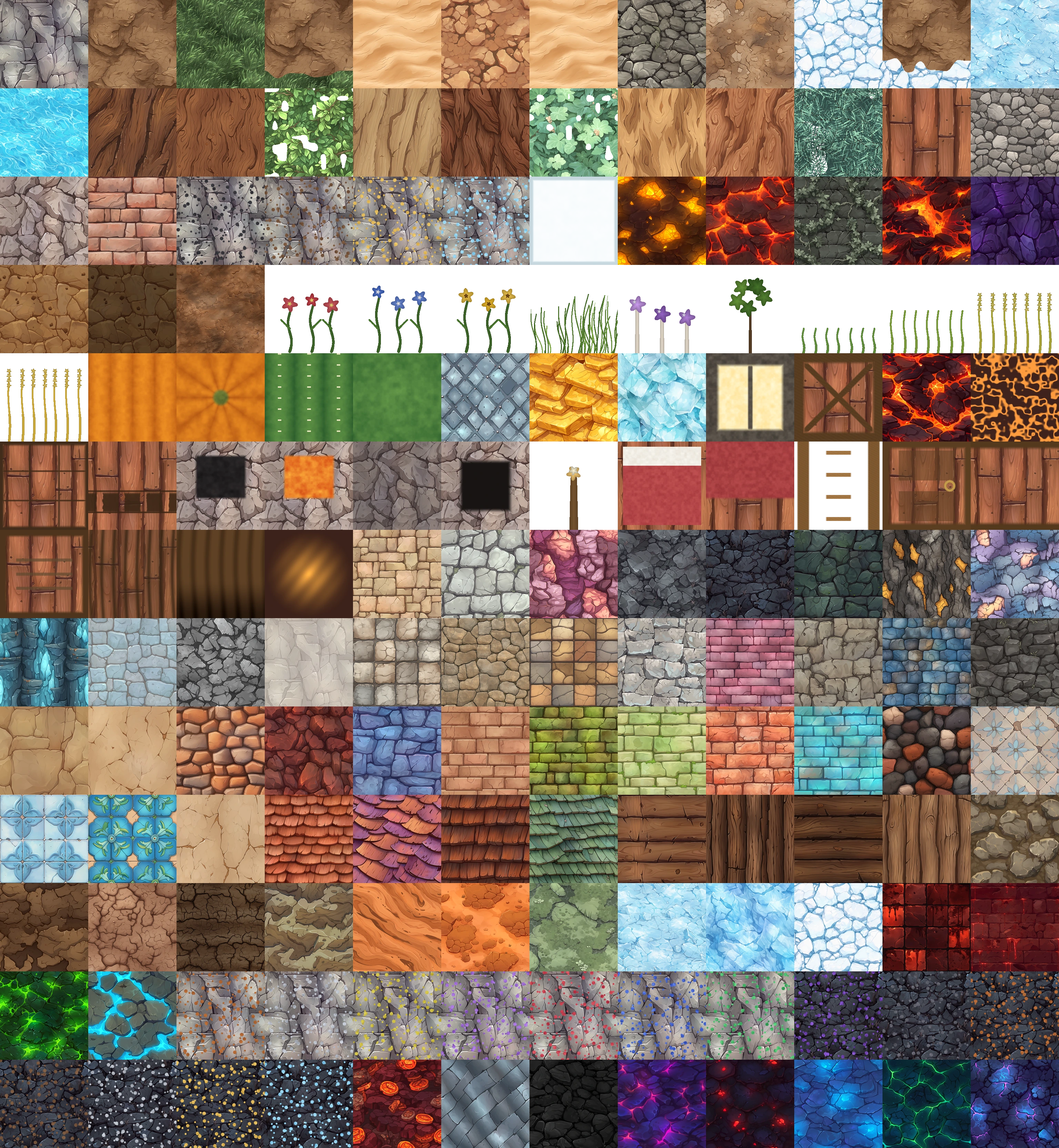
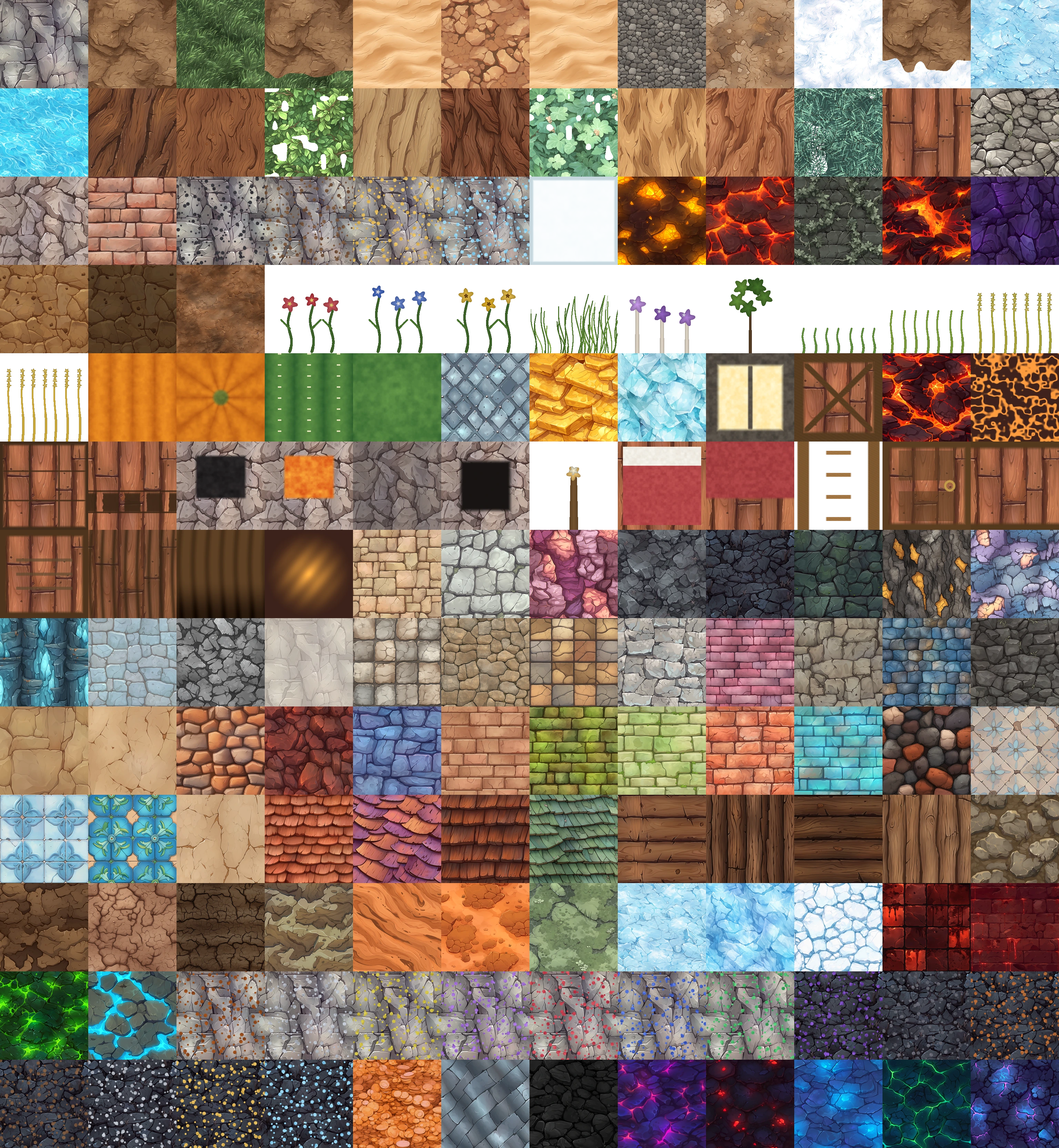
Snow is snow, and a grass block's soil matches the dirt beside it
Cobblestone and gravel were effectively swapped, and it was the cheap
explanation: two variants of one pack folder, the wrong way round. Gravel had
the rubble wall with big set stones and wide mortar; cobblestone had the bed of
small mixed stones. Exchanged, and gravel now tiles its source at half scale so
the two are separated by stone size rather than only by exposure.

Snow was drawn from a folder that is entirely snow-dusted *rock* - all eleven
variants - so "white rocks clumped together" was literally what it was. There
is a separate snow folder; the drift there has a luminance standard deviation
of 13 against the rock's 33, and no hard edges.

The grass block's soil was never a texture fault. Measured in the baked atlas,
the lower 70 percent of the grass side and the dirt tile agree to 0.03 counts
per channel. The mismatch is the biome tint, which is per block and multiplied
every fragment, so a grass block's soil took the grass colour and the dirt
block beside it did not. The bottom face is now excluded by layer, and the side
face is masked per texel through the arm map's unused alpha, which is 16
percent coverage and all of it at the top of the face. In game, on one wall:
the soil went from 53 percent of the dirt block's red with the green pushed to
parity, to within 3.5 counts and the same hue.

Copper was two defects, and the stated one was not real: every ore masks 11.6
percent of its tile, identical to three significant figures, so the fleck
[…]

Changed region(s): [[0.75, 0.0, 1.0, 0.1562], [0.3125, 0.9062, 0.4375, 1.0], [0.5625, 0.0, 0.6875, 0.0938]]

diff --git a/src/render/VoxelMaterial.js b/src/render/VoxelMaterial.js
@@ -709,6 +709,19 @@ varying vec3 vWorld;
 varying vec3 vTangent;
 varying float vWave;
 vec3 armSample;
+/**
+ * How much of the block's biome tint this texel takes, 1 by default.
+ *
+ * The tint is per BLOCK and a grass block's side face is two materials in one
+ * tile: living turf across the top sixth and the same soil as a dirt block under
+ * it. Multiplying the whole face by the biome grass colour turned that soil
+ * olive (plains: 140/102/70 becomes 77/80/28) while the dirt block against it
+ * stayed brown. The mask rides in the arm atlas's alpha, which is otherwise
+ * unused and 255 everywhere — so every other tile is unaffected, and unlike the
+ * albedo's alpha it is not also the cut-out mask that the held/inventory block
+ * renderer alpha-tests against. Written in scripts/bake-textures.mjs.
+ */
+float tintMask = 1.0;
 
 // --- aerial perspective ------------------------------------------------------
 //
@@ -858,8 +871,9 @@ vec3 cellOffset(vec3 p, vec3 cen) {
  * the one it replaced.
  */
 const SEASON_FRAG = /* glsl */`
-  vec3 seasonBase = diffuseColor.rgb * vTint;
-  float living = clamp(length(vec3(1.0) - vTint) * 4.0, 0.0, 1.0);
+  vec3 blockTint = mix(vec3(1.0), vTint, tintMask);
+  vec3 seasonBase = diffuseColor.rgb * blockTint;
+  float living = clamp(length(vec3(1.0) - blockTint) * 4.0, 0.0, 1.0);
   float seasonLum = dot(seasonBase, vec3(0.299, 0.587, 0.114));
   vec3 rehued = mix(seasonBase, seasonLum * uSeasonColor, uSeasonStrength);
   diffuseColor.rgb = mix(seasonBase, rehued, living);
@@ -868,6 +882,9 @@ const SEASON_FRAG = /* glsl */`
 const MAP_FRAG = /* glsl */`
   vec4 texel = texture(uMap, vec3(vTexUv, vLayer));
   diffuseColor *= texel;
+  // Solid faces only. A cut-out tile's arm alpha is its own business and the
+  // liquid path has no biome tint to mask, so both leave tintMask at 1.
+  tintMask = texture(uArm, vec3(vTexUv, vLayer)).a;
 ${SEASON_FRAG}
 
   // Per-voxel tone jitter: identical blocks stop reading as tiled wallpaper.
@@ -1997,6 +2014,7 @@ export function createItemBlockMaterial() {
         uniform float uSeasonStrength;
         vec3 armS;
         vec4 texelS;
+        float tintMask = 1.0;
       `)
       // A held or dropped block turns with the year too, or an autumn player
       // carries a piece of summer around in front of them.
@@ -2004,6 +2022,9 @@ export function createItemBlockMaterial() {
         texelS = texture(uMap, vec3(vTexUv, vLayer));
         vec4 texel = texelS;
         diffuseColor *= texel;
+        // Same per-texel tint mask the world uses, or the grass block in the
+        // hand keeps the olive sides the one in the ground has lost.
+        tintMask = texture(uArm, vec3(vTexUv, vLayer)).a;
 ${SEASON_FRAG}
       `)
       // Emissive that follows the texture instead of flooding the whole cube.

diff --git a/src/render/TextureGen.js b/src/render/TextureGen.js
@@ -398,7 +398,19 @@ G.crystal_ore = (s) => ore(s, [px([94, 178, 226]), px([190, 240, 255])], 0.1, 53
 // they are a variant of is the *rock*, not the ore, and the baker drops them on
 // slate instead of stone.
 const ORE_MINERALS = {
-  copper_ore: [[142, 78, 38], [206, 122, 62], 0.55, 541, 0.48],
+  // Copper is the iron problem one step milder, and it survived the pass that
+  // fixed iron because it has a hue where iron's old beige had none. Coverage is
+  // not the issue: every ore is the same blob field with a different seed, and
+  // measured on the baked atlas all of them mask 11.6% of the tile. What copper
+  // lacked was VALUE. Its light end sat at luminance 140 against the stone it
+  // bakes onto at 137, so the lit half of every fleck disappeared into the rock
+  // and only the dark half read as ore — flecks that shrink to nothing at a few
+  // blocks' distance or in a torch-lit shaft. Measured RMS luminance difference
+  // against the stone base: copper 14.2, with coal 29.4, crystal 23.9, silver
+  // 19.6, gold 19.5 and iron 19.3. Dropped a stop and a half and saturated,
+  // which lands copper at 20.2 — inside the family band — and reads as raw
+  // copper ore rather than as pale rust.
+  copper_ore: [[104, 48, 18], [188, 96, 34], 0.55, 541, 0.48],
   silver_ore: [[136, 142, 152], [222, 228, 238], 0.7, 551, 0.3],
   sulfur_ore: [[168, 148, 26], [236, 222, 96], 0.0, 561, 0.62],
   amethyst_ore: [[110, 58, 168], [198, 148, 252], 0.05, 571, 0.16],
@@ -410,6 +422,10 @@ const ORE_MINERALS = {
   // deep matrix it would sit in, so the vein disappeared. Lifted a stop and a
   // half, which is the only way a black mineral reads against black rock.
   deep_coal_ore: [[58, 58, 66], [124, 124, 136], 0, 621, 0.72],
+  // Deep copper keeps the OLD, lighter copper: it bakes onto slate at luminance
+  // 47, so the shallow ore's new dark end would be the same value as its matrix
+  // and the vein would vanish the way deep coal's did. Same mineral, one rock
+  // brighter, for the same reason coal has a deep colour of its own.
   deep_copper_ore: [[142, 78, 38], [206, 122, 62], 0.55, 631, 0.48],
   deep_iron_ore: [[92, 62, 42], [146, 108, 78], 0.45, 641, 0.5],
   deep_silver_ore: [[136, 142, 152], [222, 228, 238], 0.7, 651, 0.3],

diff --git a/src/world/Mesher.js b/src/world/Mesher.js
@@ -12,6 +12,7 @@ import {
   TINT_ID, R_CROSS, R_LIQUID, R_GLASS, R_LADDER, R_TORCH, IS_DIRECTIONAL, IS_AXIS, IS_SLAB, IS_SHAPED,
   IS_SUBMERGED,
   FACING_DEFAULT, sideTile, capTile, axisOf, blockBoxes, IS_FENCE, fenceLinks,
+  TILES, TILE_INDEX,
 } from './Blocks.js';
 
 /**
@@ -267,6 +268,27 @@ function tintOf(id, biomeId) {
   if (t === 3) { const f = c.foliage; return [f[0] * 0.90, f[1] * 0.98, f[2] * 0.93]; }
   return [c.foliage[0] * 0.9, c.foliage[1] * 1.0, c.foliage[2] * 0.85];
 }
+
+/**
+ * Layers that must never take a block's biome tint, whatever block they land on.
+ *
+ * The tint is a property of the *block* and multiplies every fragment of it, so
+ * a grass block's bottom face — which is the plain `dirt` tile — came out
+ * multiplied by the biome grass colour. Measured on the baked atlas, the tile
+ * itself is exact: grass_side's lower 70% and `dirt` agree to a mean 0.03 counts
+ * per channel. Measured in a plains biome, the tint is [0.55, 0.78, 0.40], so
+ * the same soil rendered 140/102/70 on a dirt block and 77/80/28 on the grass
+ * block beside it — a different, olive earth, which is what the playtest called
+ * out ("grass block also uses different dirt color").
+ *
+ * The face's *layer* is what says "this texel is soil, not foliage", and it is
+ * already threaded into `emit`. Only whole faces can be settled here; the side
+ * face is soil and foliage in one tile and is masked per texel instead, see the
+ * arm-alpha tint mask in scripts/bake-textures.mjs and VoxelMaterial's MAP_FRAG.
+ */
+const WHITE = [1, 1, 1];
+const UNTINTED_LAYER = new Uint8Array(TILES.length);
+for (const t of ['dirt']) UNTINTED_LAYER[TILE_INDEX[t]] = 1;
 
 function faceVisible(a, b) {
   if (a === 0) return false;
@@ -596,7 +618,7 @@ export function meshChunk(blocks, colBiome, colWater, light, facing, f, ci, cj, 
 
     const tint = GROUP[id] === GROUP_LIQUID
       ? [liquidDepth, liquidShore, liquidStyle]
-      : tintOf(id, biomeId);
+      : (UNTINTED_LAYER[layer] ? WHITE : tintOf(id, biomeId));
     const wave = WAVE[id];
     const uv = [[0, 0], [uMax, 0], [uMax, vMax], [0, vMax]];
     const pts = [p0, p1, p2, p3];

diff --git a/src/render/TileAtlas.js b/src/render/TileAtlas.js
@@ -130,9 +130,12 @@ export async function loadTileAtlas(onProgress = () => {}) {
   const [albedo, normal, arm] = bitmaps.map((bmp) =>
     sliceGrid(imageToRGBA(bmp), bmp.width, size, cols, layers));
 
-  // Albedo only. Measured on this atlas: normal and arm carry no alpha==0
-  // texel at all (0 of 10.2M each), so a dilate there is a pure cost, and the
-  // crack strip is never far enough away for its mips to matter.
+  // Albedo only. The dilate exists so a cut-out tile's transparent texels carry
+  // their neighbours' colour into the mips instead of black. The normal map has
+  // no transparent texel at all, and the arm map's alpha is not transparency —
+  // it is the per-texel biome-tint mask on the two fringe tiles (see FRINGE in
+  // scripts/bake-textures.mjs), which wants its own soft mip edge and must not
+  // be dilated. The crack strip is never far enough away for its mips to matter.
   const t0 = performance.now();
   const dilated = dilateLayers(albedo, size, layers);
   if (import.meta.env?.DEV) {
